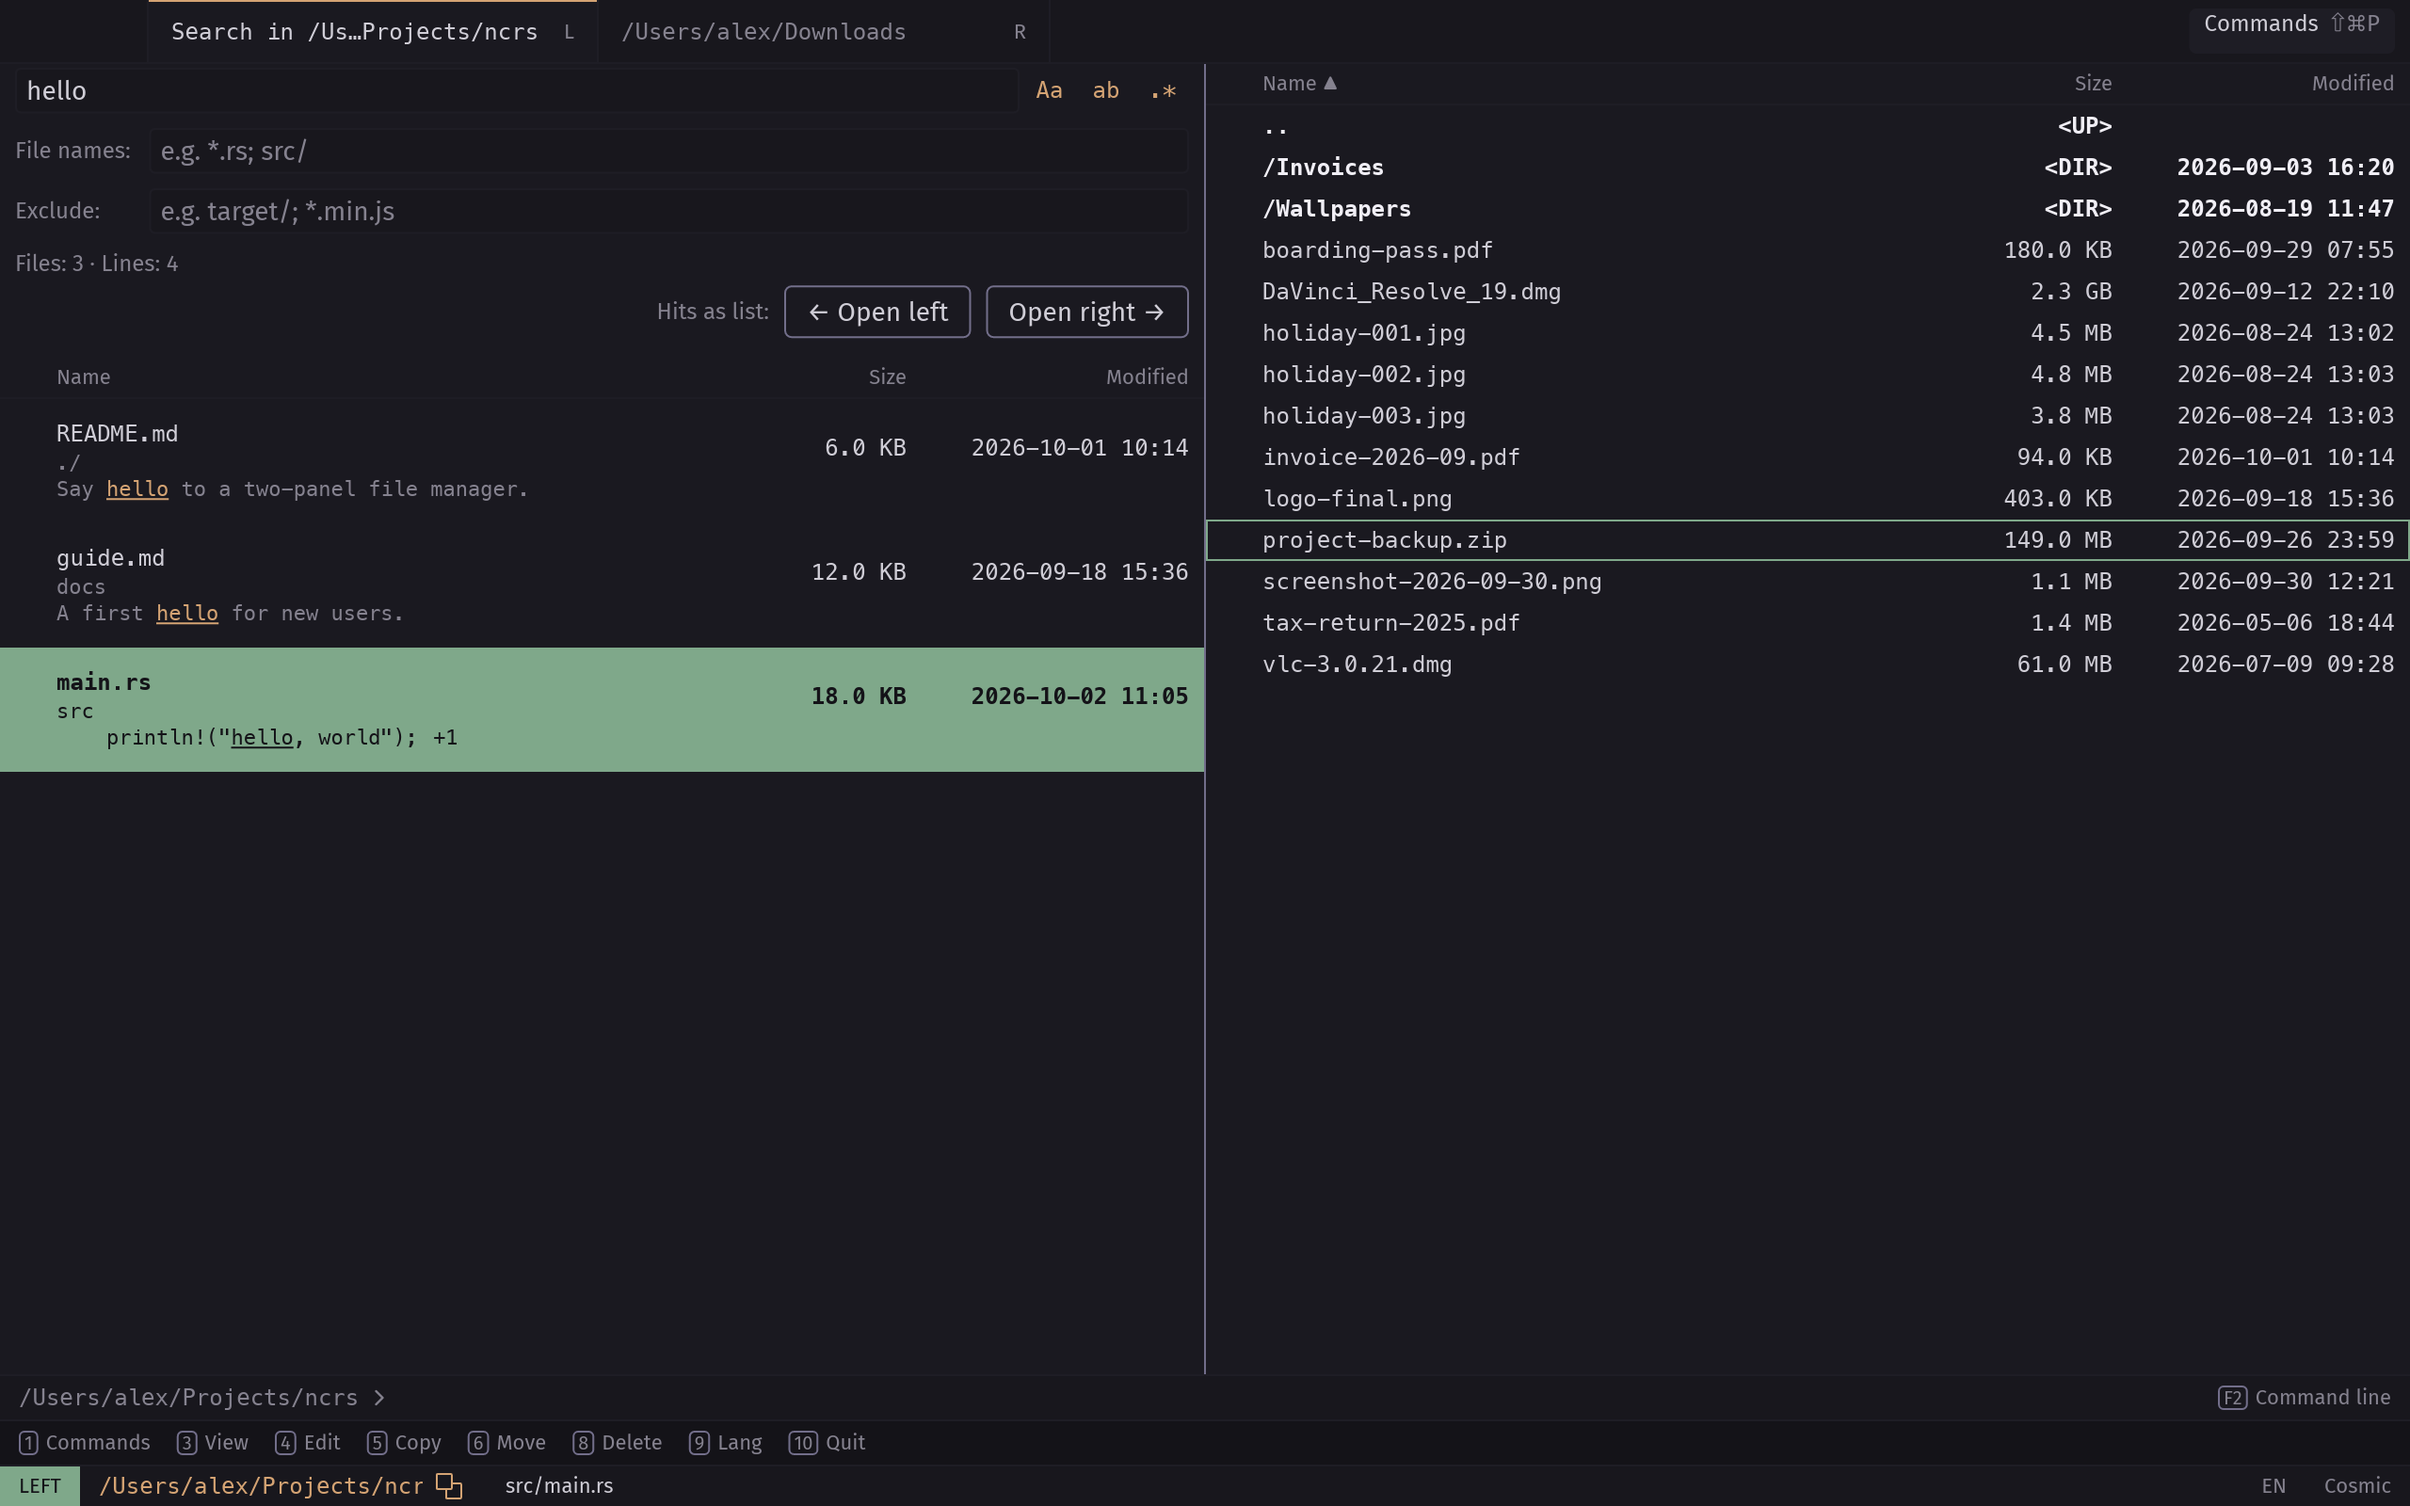
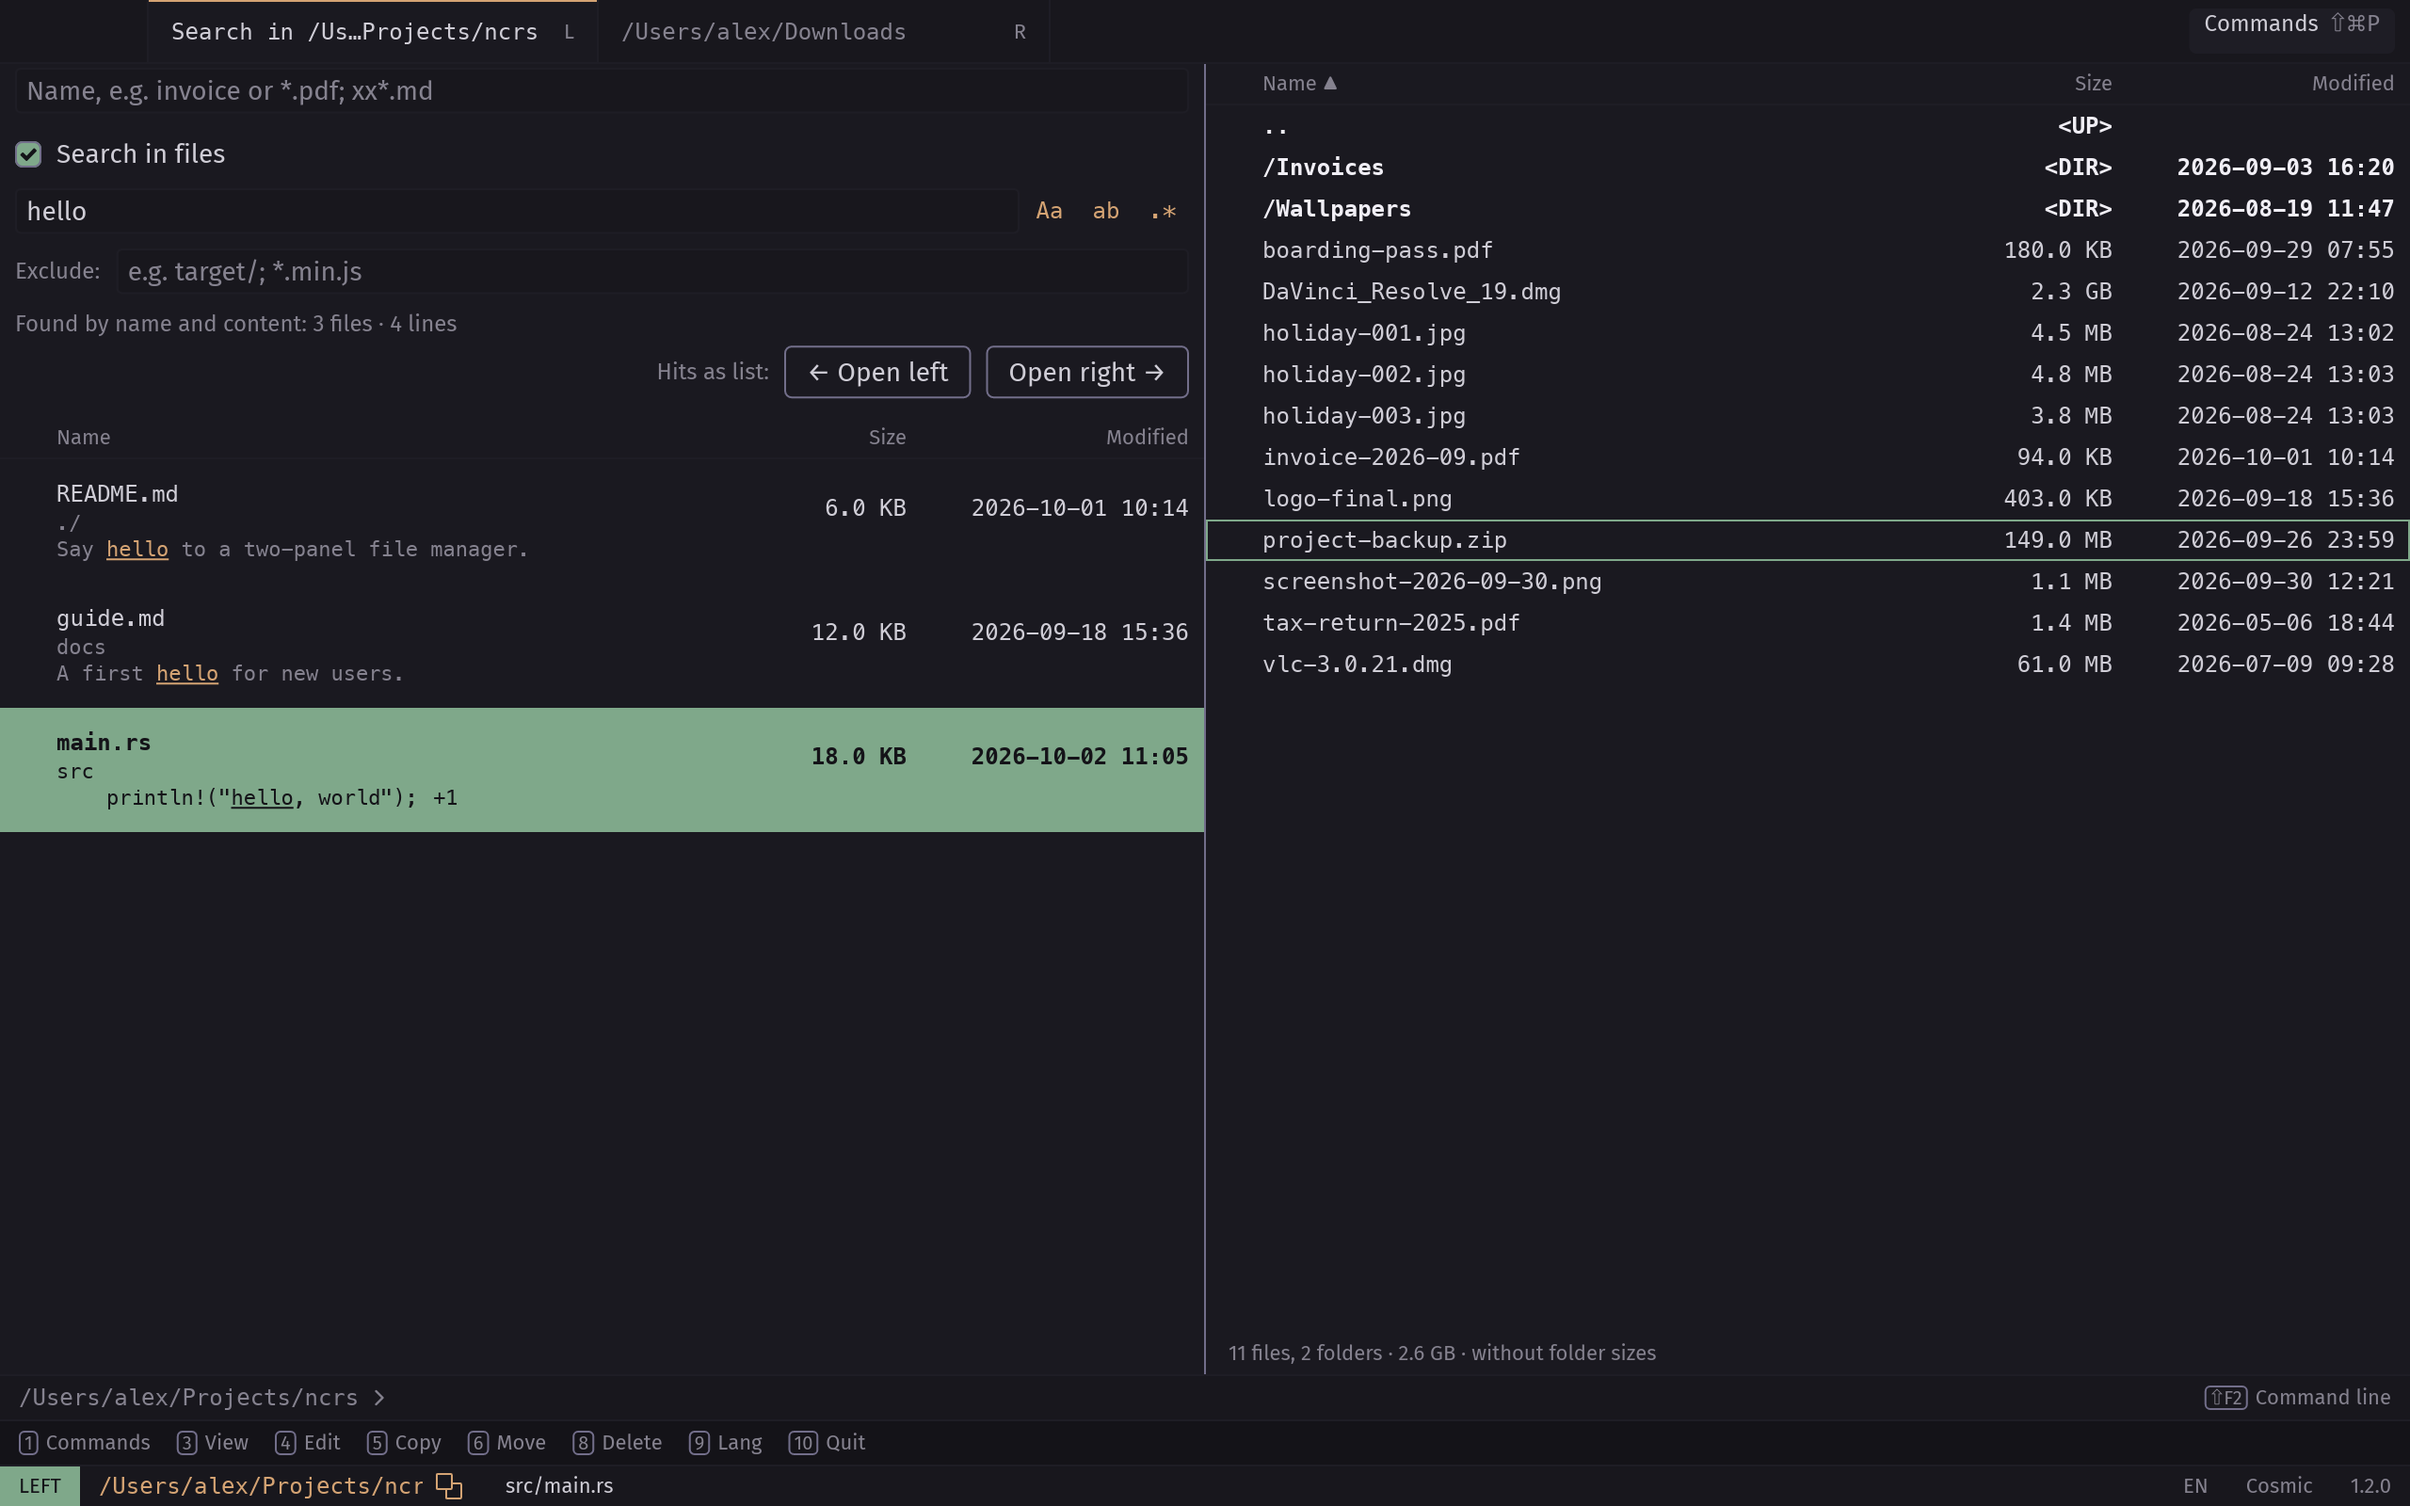
Regenerate the README and store screenshots for 1.2.0 with the released version

diff --git a/src/screenshot_tests.rs b/src/screenshot_tests.rs
@@ -140,7 +140,7 @@ fn position_of(entries: &[FileEntry], name: &str) -> usize {
 /// Two realistic panels. The cursor is on `README.md`, `Cargo.toml` and
 /// `CHANGELOG.md` are tagged.
 fn showcase_app() -> App {
-    let mut app = App::with_fixed_panels();
+    let mut app = App::with_fixed_panels().with_version_for_test(env!("CARGO_PKG_VERSION"));
     app.set_visible_rows_for_test(VISIBLE_ROWS);
 
     let project = app.panel_mut_for_test(PanelSide::Left);

diff --git a/src/app/tests/support/app_fixtures.rs b/src/app/tests/support/app_fixtures.rs
@@ -646,6 +646,11 @@ impl App {
         app
     }
 
+    pub fn with_version_for_test(mut self, version: &'static str) -> Self {
+        self.app_version = version;
+        self
+    }
+
     /// Makes the licence lookup find (or not find) a file.
     pub fn with_licenses_finder(mut self, finder: fn() -> Option<PathBuf>) -> Self {
         self.find_third_party_licenses = finder;
